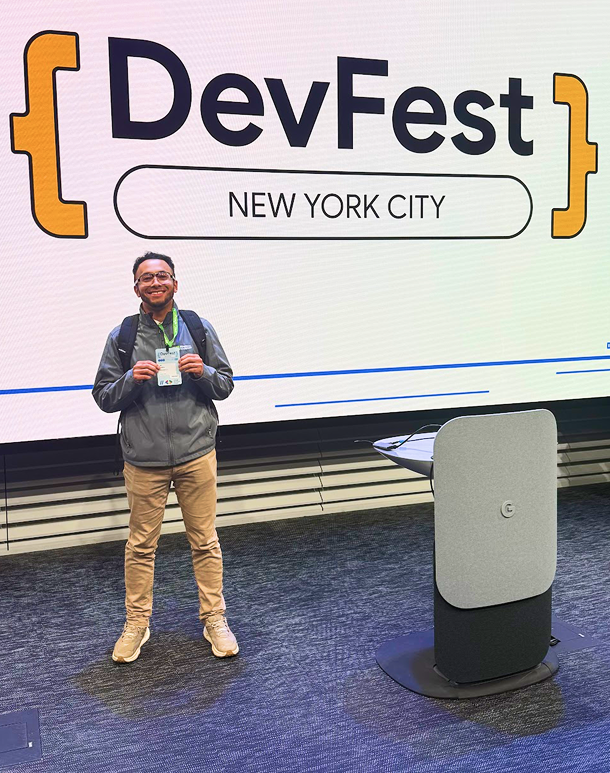
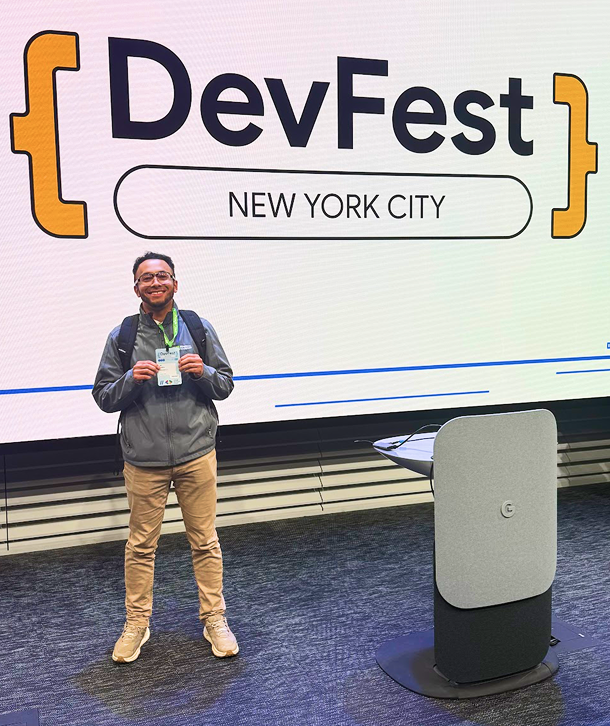
added 404 page

diff --git a/app/not-found.tsx b/app/not-found.tsx
@@ -1,0 +1,18 @@
+import Link from "next/link";
+
+export default function NotFound() {
+  return (
+    <div className="flex flex-col items-center justify-center min-h-screen py-2">
+      <Link href="/" className="text font-bold underline text-blue-600 mb-2">
+        www.ian-val.com
+      </Link>
+      <h1 className="text-5xl font-bold my-2">404 - Page Not Found</h1>
+      <p className="text-xl my-4">
+        The page you are looking for does not exist.
+      </p>
+      <Link href="/" className="mt-6 button-primary">
+        Return Home
+      </Link>
+    </div>
+  );
+}

diff --git a/components/homepage/sections/Hero.tsx b/components/homepage/sections/Hero.tsx
@@ -31,7 +31,7 @@ export default function Hero() {
             src="/images/home/hero-photo.png"
             alt="A smiling person, Ian Valeta, stands in front of a DevFest New York City backdrop, holding a name badge and wearing a lanyard, with a podium microphone visible to the right."
             width={610}
-            height={773}
+            height={726}
             className="
           border-3 border-blue-600 
           shadow-2xl rounded-3xl

diff --git a/components/global/Header.tsx b/components/global/Header.tsx
@@ -12,7 +12,7 @@ export default function Nav() {
     font-semibold shadow-md
     "
     >
-      <nav className=" flex justify-between items-center max-w-280 mx-auto px-10 gap-5">
+      <nav className=" flex justify-between items-center max-w-270 mx-auto px-10 gap-5">
         <Link href="/">ian-val.com</Link>
         <Link href="#work" className="link ml-auto">
           Work
